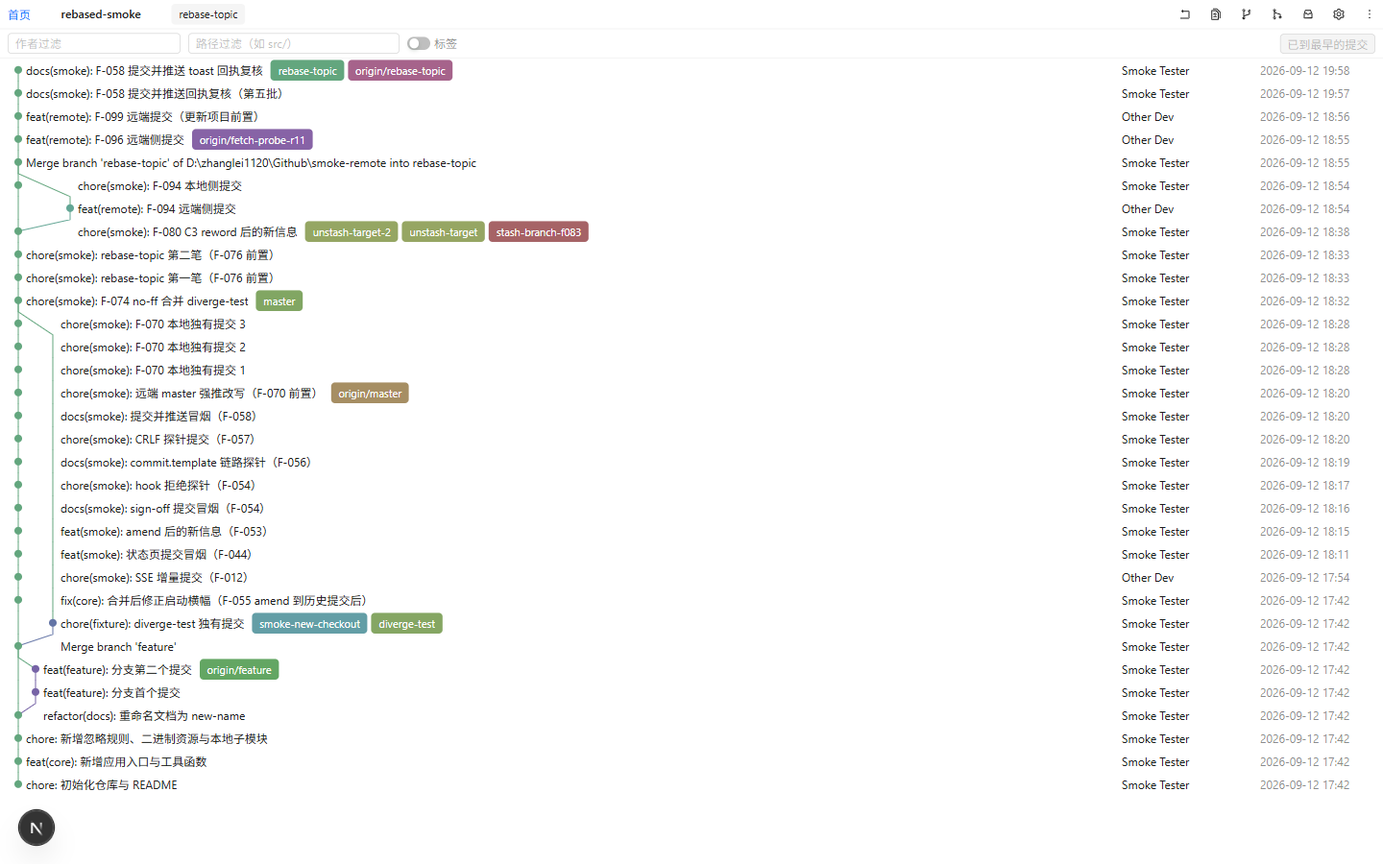
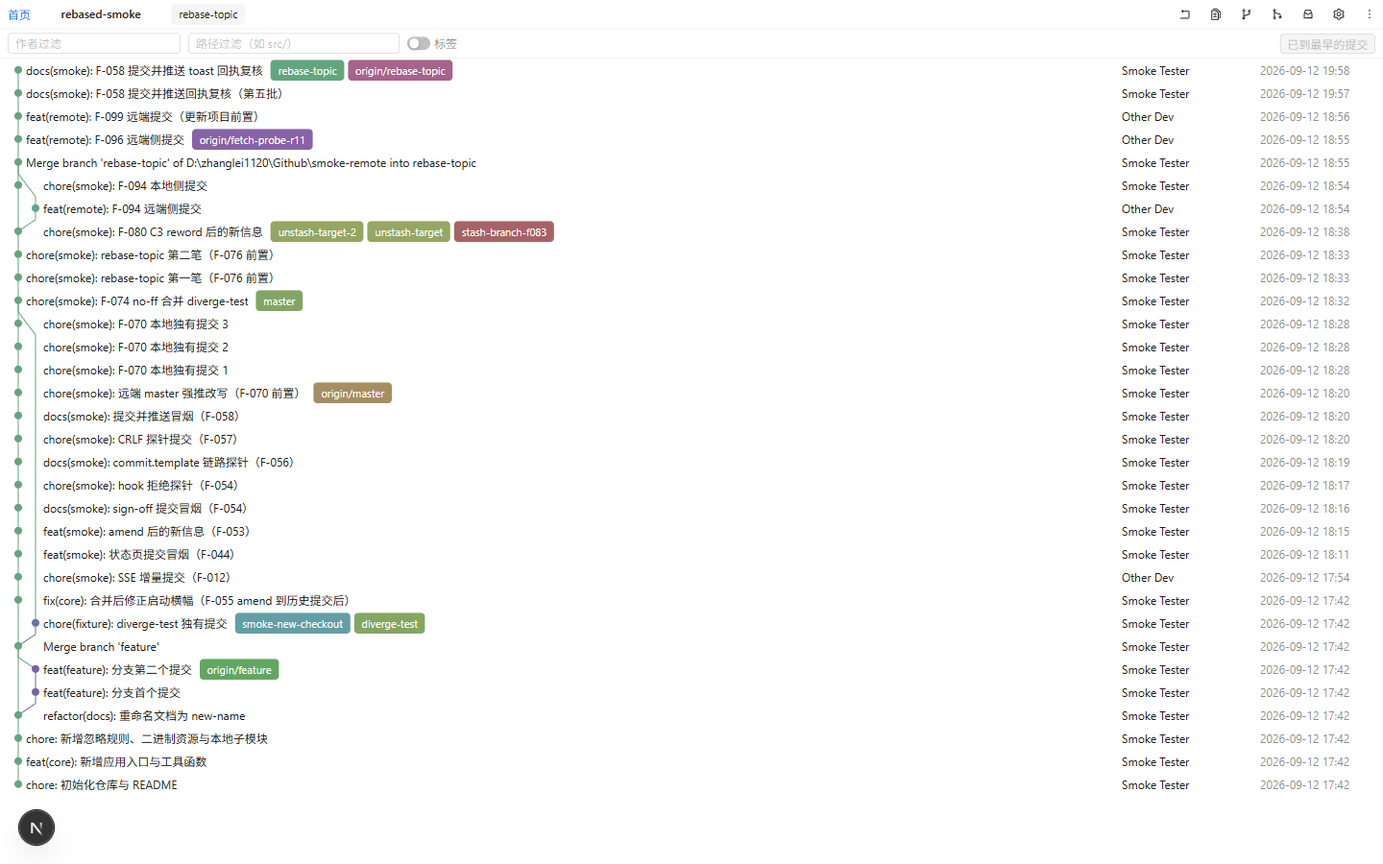
fix(ui): 压实显示车道，缩进深度回到结构深度（主仓最大缩进 3 档 → 1 档）
用户复核主仓日志页后指出：这张图没有多层级嵌套，但缩进深度不合理（对照 rebased-multi2
「多层级是完美的」）。逐行读两仓几何后确认根因不在缩放规则，而在车道编号：

- Java 车道 = layoutIndex − 1，由 GraphLayoutBuilder 的 DFS 行走发号，**永不复用** ——
  主仓 fragment 发现顺序是 主线(1) → feature(2) → diverge-test(3) → 远端侧(4)，
  于是只出现一条侧支的区间里，diverge-test 落在车道 2、远端侧落在车道 3，而车道 1/2 当时空着；
- 上一轮「文字让开本行最深的那条线」把这份空档原样搬成缩进：主仓实测最大 3 档（54px），
  而该历史任何时刻最多 2 条线并存，结构上只需 1 档；
- 对照 rebased-multi2：车道恰好稠密（每行 {0..k} 无空洞），缩进 = 结构深度，所以观感正确。

改法（用户裁定「压实显示车道」）：新增 graph-layout/lane-compaction.ts 的 compactLanes()，
按「同一区间内并存的线连续编号」压实**显示车道**：
  1. 一条线 = 一个 fragment（Java lane 相同），占用区间 = 本 lane 的节点行 ∪ 以它为终点的长边
     竖直段所占的行（竖直段画在目标车道上，自起点行下方两行起 —— 弯固定占一个行带）；
  2. 按 Java lane 升序（= 从左到右）分配「max(区间重叠的已分配线) + 1」：
     与所有重叠线比大小 ⇒ 左右顺序保持 ⇒ 竖线不新增交叉；只看重叠的线 ⇒ 时间错开的线可复用同一列。
  可证性质：显示车道 ≤ Java 车道（只会左移，绝不会更宽）；同一 fragment 不换列。
仅动渲染层：buildLayout 的 Java 车道号、Java 着色（colorById(layoutIndex)）、edgesInRow 与
graph-layout/fixtures/java/* 的 parity 快照全部不变，颜色与 ref chips 的「同色」口径不受影响。

实测（浏览器逐行读 SVG）：
- rebased-smoke：最大缩进 3 档 → **1 档**（文字 x 81/63 → 45），全表列宽只剩 {38,56}、每行无空列，
  clipped=0 / textOverlap=0；分叉与侧支现在紧邻主线（log-graph-02/05.png）。
- rebased-multi2：逐行不变（节点车道 0,0,1,2,3,2,2,1,1,0,0；列宽 38,38,56,74,92,92,74,74,56,56,38
  与压前逐项一致）→ 恒等变换实测成立，log-graph-03.png 与压前逐字节相同。

守卫：新增 lane-compaction.test.ts 6 例（稠密=恒等 / 稀疏压到「并存线数 − 1」且无空列 / 不新增交叉 /
一条线不换列 / 只动车道号 / 只左移不变宽）+ commit-graph.test.tsx「稀疏车道被压实到结构深度」守住
渲染链路真的调用了它。回归：typecheck ✅、format ✅、ui 710/710 ✅（其余包未改动）。
记录见 docs/e2e-verification.md §5.23 D-50 行。

Changed region(s): [[0.0, 0.3422, 0.3438, 0.7778], [0.0312, 0.1867, 0.4375, 0.28]]

diff --git a/packages/client/ui/src/graph-layout/lane-compaction.test.ts b/packages/client/ui/src/graph-layout/lane-compaction.test.ts
@@ -1,0 +1,133 @@
+// @vitest-environment node
+/**
+ * 显示车道压实的不变量：
+ *   ① **稠密仓库是恒等变换**（车道本来就连续、无空洞时，压实不得改动任何一行）；
+ *   ② 缩进深度 = 结构深度：同一区间内并存的线连续编号，空列被消除（主仓型场景：至多 2 条线并存 → 最大 1 档）；
+ *   ③ 不新增交叉：区间重叠的两条线，显示车道的左右顺序与 Java 车道一致；
+ *   ④ 一条线不换列：同一 fragment（Java lane 相同）的所有节点与边端点共用同一个显示车道；
+ *   ⑤ 颜色与其他字段原样保留（压实只动车道号，不动 Java 着色语义）。
+ */
+import { describe, expect, it } from 'vitest';
+import { buildLayout } from './build-layout';
+import { compactLanes } from './lane-compaction';
+import type { LayoutCommit, LayoutRow } from './types';
+
+/**
+ * 复刻主仓（rebased-smoke）的形态：主线 + 两条**时间上错开**的侧支。
+ * Java DFS 会按发现顺序给侧支发号（S2 → lane 1、S1 → lane 2，因为 S2 先被发现），
+ * 于是 S1 落在车道 2、而同时并存的线只有 2 条 —— 压实后应降为 lane 1。
+ */
+const sparseCommits: LayoutCommit[] = [
+  { hash: 'm1', parents: ['p1', 's1'], refs: ['HEAD -> main'] }, // row0：侧支 s1 与之隔 2 行
+  { hash: 'p1', parents: ['p2'], refs: [] },
+  { hash: 's1', parents: ['p2'], refs: [] }, // row2：与主线汇合，跨度仅 [2,2]
+  { hash: 'p2', parents: ['p3'], refs: [] },
+  { hash: 'p3', parents: ['p4', 's2'], refs: [] }, // row4：第二条侧支 s2，隔 3 行
+  { hash: 'p4', parents: ['p5'], refs: [] },
+  { hash: 'p5', parents: ['p6'], refs: [] },
+  { hash: 's2', parents: ['p6'], refs: [] }, // row7：跨度 [6,7]
+  { hash: 'p6', parents: [], refs: [] },
+];
+
+/** 稠密形态（fixtures/merge：m 合并 b 与 a，a 独占 lane 1，无空洞）——压实必须是恒等变换 */
+const denseCommits: LayoutCommit[] = [
+  { hash: 'm', parents: ['b', 'a'], refs: ['HEAD -> main'] },
+  { hash: 'b', parents: ['r'], refs: [] },
+  { hash: 'a', parents: ['r'], refs: [] },
+  { hash: 'r', parents: [], refs: [] },
+];
+
+/** 每行的显示车道是否连续（0..k 无空洞） */
+function hasHole(rows: LayoutRow[], index: number): boolean {
+  const lanes = new Set<number>([rows[index]!.lane]);
+  rows[index]!.edges.forEach((e) => {
+    lanes.add(e.fromLane);
+    lanes.add(e.toLane);
+  });
+  const sorted = [...lanes].sort((a, b) => a - b);
+  return sorted.some((lane, i) => lane !== i);
+}
+
+describe('compactLanes', () => {
+  it('稠密车道是恒等变换（逐行逐边与 buildLayout 输出一致）', () => {
+    const rows = buildLayout(denseCommits);
+    const compacted = compactLanes(rows);
+    expect(compacted.map((r) => r.lane)).toEqual(rows.map((r) => r.lane));
+    expect(compacted.map((r) => r.edges)).toEqual(rows.map((r) => r.edges));
+  });
+
+  it('稀疏车道被压实：Java 车道 2 的侧支降到 1，空列消失（最大缩进 = 并存线数 − 1）', () => {
+    const rows = buildLayout(sparseCommits);
+    const before = Math.max(...rows.map((r) => r.lane));
+    const compacted = compactLanes(rows);
+    const after = Math.max(...compacted.map((r) => r.lane));
+    // 压前：Java 按发现顺序发号，先被发现的侧支 s2 拿 lane 1、后发现的 s1 拿 lane 2
+    expect(before).toBe(2);
+    // 该历史任何时刻至多 2 条线并存（s1 跨度 [2,2]、s2 跨度 [6,7]，互不重叠）→ 压后最多 1 档
+    expect(after).toBe(1);
+    compacted.forEach((_, index) => expect(hasHole(compacted, index)).toBe(false));
+    // 两条侧支可以复用同一列（时间上错开），并列在主线右侧
+    const s1Lane = compacted[2]!.lane;
+    const s2Lane = compacted[7]!.lane;
+    expect(s1Lane).toBe(1);
+    expect(s2Lane).toBe(1);
+  });
+
+  it('不新增交叉：区间重叠的两条线，左右顺序与 Java 车道一致', () => {
+    for (const commits of [sparseCommits, denseCommits]) {
+      const rows = buildLayout(commits);
+      const compacted = compactLanes(rows);
+      rows.forEach((row, index) => {
+        const lanes = [row.lane, ...row.edges.flatMap((e) => [e.fromLane, e.toLane])];
+        const display = [compacted[index]!.lane, ...compacted[index]!.edges.flatMap((e) => [e.fromLane, e.toLane])];
+        for (let i = 0; i < lanes.length; i++) {
+          for (let j = 0; j < lanes.length; j++) {
+            if (lanes[i]! < lanes[j]!) expect(display[i]!).toBeLessThan(display[j]!);
+          }
+        }
+      });
+    }
+  });
+
+  it('一条线不换列：同一 Java 车道的所有节点与边端点共用同一个显示车道', () => {
+    const rows = buildLayout(sparseCommits);
+    const compacted = compactLanes(rows);
+    const displayOf = new Map<number, number>();
+    rows.forEach((row, index) => {
+      displayOf.set(row.lane, compacted[index]!.lane);
+      row.edges.forEach((edge) => {
+        displayOf.set(edge.toLane, compacted[index]!.edges.find((e) => e.toRow === edge.toRow)!.toLane);
+      });
+    });
+    rows.forEach((row, index) => {
+      expect(compacted[index]!.lane).toBe(displayOf.get(row.lane));
+      compacted[index]!.edges.forEach((edge, ei) => {
+        expect(edge.fromLane).toBe(compacted[index]!.lane);
+        expect(edge.toLane).toBe(displayOf.get(row.edges[ei]!.toLane));
+      });
+    });
+  });
+
+  it('只动车道号：颜色/父提交/边类型原样保留（Java 着色语义不变）', () => {
+    const rows = buildLayout(sparseCommits);
+    const compacted = compactLanes(rows);
+    expect(compacted.map((r) => r.color)).toEqual(rows.map((r) => r.color));
+    expect(compacted.map((r) => r.commit)).toEqual(rows.map((r) => r.commit));
+    expect(compacted.map((r) => r.edges.map((e) => [e.type, e.fromRow, e.toRow]))).toEqual(
+      rows.map((r) => r.edges.map((e) => [e.type, e.fromRow, e.toRow])),
+    );
+  });
+
+  it('显示车道只会左移：逐行逐边都不大于 Java 车道（压实不会把图变宽）', () => {
+    for (const commits of [sparseCommits, denseCommits]) {
+      const rows = buildLayout(commits);
+      const compacted = compactLanes(rows);
+      rows.forEach((row, index) => {
+        expect(compacted[index]!.lane).toBeLessThanOrEqual(row.lane);
+        row.edges.forEach((edge, ei) => {
+          expect(compacted[index]!.edges[ei]!.toLane).toBeLessThanOrEqual(edge.toLane);
+        });
+      });
+    }
+  });
+});

diff --git a/packages/client/ui/src/graph-layout/lane-compaction.ts b/packages/client/ui/src/graph-layout/lane-compaction.ts
@@ -1,0 +1,100 @@
+/**
+ * 显示车道压实（**渲染层补充，不属于 Java 移植**）。
+ *
+ * 为什么需要：`buildLayout` 的 `lane = layoutIndex − 1` 是 Java `GraphLayoutBuilder` 的 DFS 行走结果 ——
+ * fragment 每被发现一次就全局 +1、**永不复用**，所以车道号是「fragment 被发现的先后」，不是「第几列被占用」。
+ * 侧支因此常被放到靠右的列上，中间留出空列，例如主仓（rebased-smoke）的实际排布：
+ *   fragment 发现顺序 = 主线(1) → feature(2) → diverge-test(3) → 远端侧(4)
+ *   → 只出现一条侧支的区间里，diverge-test 落在**车道 2**、远端侧落在**车道 3**，而车道 1/2 当时空着。
+ * 这份空档会原样传到界面上：图里看得见空列，且「文字让开本行最深的那条线」（domain/commit-graph-segments）
+ * 会把缩进也一起推深 —— 主仓实测缩进 3 档（54px），而它的结构是「主线 + 至多一条并行侧支」，只需 1 档。
+ * 对照：rebased-multi2 的车道恰好是稠密的（每行 {0..k} 无空洞），压实对它是**恒等变换**，画面逐像素不变。
+ *
+ * 口径：只压**显示车道**，不动 Java 车道号 —— `LayoutRow.color`（主线染 head ref 哈希色、fragment 染
+ * layoutIndex 色）、`edgesInRow`、`graph-layout/fixtures/java/*` 的 parity 快照全部不受影响。
+ *
+ * 算法（绿线：不新增交叉、一条线不换列、能复用就复用）：
+ *   1. 一条「线」= 一个 fragment（Java lane 相同）；它的占用区间 = 该 lane 在行号轴上出现过的 [最小行, 最大行]：
+ *      本 lane 的节点行，加上「以该 lane 为终点的长边」的竖直段所占的行（竖直段画在**目标车道**上，
+ *      自起点行下方两行起 —— 弯在一个行带内完成，见 domain/commit-graph-segments 的几何口径）；
+ *   2. 按 Java lane 升序（= 图中从左到右）逐条分配：显示车道 = max(与之**区间重叠**的已分配线的显示车道) + 1。
+ *      · 与所有重叠线比大小 ⇒ 左右相对顺序保持 ⇒ 竖线之间不会新增交叉；
+ *      · 只看「区间重叠」的线 ⇒ 区间不相交（时间上错开）的线可复用同一列 ⇒ 列数被压到最紧。
+ *
+ * 可证的两条性质（实现时依赖）：① **显示车道 ≤ Java 车道**（只会左移，绝不会更宽）—— 归纳：重叠的前序线
+ * Java 车道都比本线小、显示车道又都不超过各自 Java 车道，故 max+1 ≤ 本线 Java 车道；
+ * ② 同一 Java 车道的所有节点与边端点映射到同一个显示车道（映射按 Java 车道查表，不是按行算）。
+ */
+
+import type { LayoutRow } from './types';
+
+/** 一条线（fragment）在行号轴上的占用区间 */
+interface LineSpan {
+  /** Java 车道（= layoutIndex − 1），也是分配顺序 */
+  javaLane: number;
+  startRow: number;
+  endRow: number;
+}
+
+/**
+ * 长边竖直段的起始行偏移：弯固定占一个行带（自起点行下方半行起），
+ * 故目标车道自 `fromRow + 2` 起被占用；相邻两行时斜段即终点行那半行，不额外占列。
+ */
+const VERTICAL_FIRST_ROW_OFFSET = 2;
+
+/** 收集每条线的占用区间（区间用 [min, max] 近似：宁可保守，也不能让两条线撞进同一列） */
+function lineSpans(rows: LayoutRow[]): LineSpan[] {
+  const spans = new Map<number, LineSpan>();
+  const touch = (javaLane: number, row: number): void => {
+    const span = spans.get(javaLane);
+    if (!span) spans.set(javaLane, { javaLane, startRow: row, endRow: row });
+    else {
+      span.startRow = Math.min(span.startRow, row);
+      span.endRow = Math.max(span.endRow, row);
+    }
+  };
+
+  rows.forEach((row, index) => {
+    touch(row.lane, index);
+    for (const edge of row.edges) {
+      if (edge.toRow <= edge.fromRow + 1) continue; // 相邻行：无独立竖段
+      touch(edge.toLane, edge.fromRow + VERTICAL_FIRST_ROW_OFFSET);
+      touch(edge.toLane, edge.toRow);
+    }
+  });
+
+  return [...spans.values()].sort((a, b) => a.javaLane - b.javaLane);
+}
+
+/** 两个区间是否在行号轴上重叠（含端点相接：相接处两行共享同一行边界，仍算同时可见） */
+function overlaps(a: LineSpan, b: LineSpan): boolean {
+  return a.startRow <= b.endRow && b.startRow <= a.endRow;
+}
+
+/**
+ * 把 Java 车道压成「同时并存的线连续编号」的显示车道。
+ * @param rows buildLayout 输出（也可直接喂 fixtures）
+ * @returns 新行数组：`lane` 与 `edges[].fromLane/toLane` 换成显示车道，其余字段（commit/color/边类型）原样保留
+ */
+export function compactLanes(rows: LayoutRow[]): LayoutRow[] {
+  const assigned = new Map<number, number>();
+  const placed: Array<{ lane: number; span: LineSpan }> = [];
+  for (const span of lineSpans(rows)) {
+    // 与已分配线中「区间重叠」的那些：显示车道必须排在它们右侧（保持左右顺序）
+    const overlapping = placed.filter((item) => overlaps(item.span, span));
+    const lane = overlapping.reduce((max, item) => Math.max(max, item.lane + 1), 0);
+    assigned.set(span.javaLane, lane);
+    placed.push({ lane, span });
+  }
+
+  const displayLaneOf = (javaLane: number): number => assigned.get(javaLane) ?? javaLane;
+  return rows.map((row) => ({
+    ...row,
+    lane: displayLaneOf(row.lane),
+    edges: row.edges.map((edge) => ({
+      ...edge,
+      fromLane: displayLaneOf(edge.fromLane),
+      toLane: displayLaneOf(edge.toLane),
+    })),
+  }));
+}

diff --git a/packages/client/ui/src/domain/commit-graph.tsx b/packages/client/ui/src/domain/commit-graph.tsx
@@ -10,6 +10,9 @@
  *     大仓会把 DOM 撑到几万节点）；viewBox = 本行带 × 本行图列宽度，不做「按行裁切拼接」；
  *   - 本行图列宽度 = 本行带内所有线条与本行圆点的 x 上界（`RowGeometry.maxX`）→
  *     跨到更右 lane 的斜线不会再被裁断（旧口径按「本行圆点所在 lane」定宽，实测断线 8px / 66px）；
+ *   - **车道号先经显示层压实**（graph-layout/lane-compaction）：Java 车道是 fragment 发现顺序、永不复用，
+ *     侧支因此常被放到靠右的列、中间留空列；压实后「同时并存的线」连续编号，缩进深度才等于结构深度
+ *     （主仓实测最大缩进 3 档 → 1 档；车道本就稠密的仓库是恒等变换）。颜色/parity 仍走 Java lane。
  *   - 说明文字的缩进 = 本行图列预留的 lane 列数 × LANE_WIDTH，**随线条缩进**
  *     （线条画到更右的车道，本行文字就跟着让位；没画到右边的行，缩进与旧口径逐像素一致）。
  *
@@ -23,7 +26,7 @@ import { useEffect, useMemo, useRef, useState } from 'react';
 import { ConfigProvider, Flex, Listy, Tag, theme, Typography } from 'antd';
 import type { ThemeConfig } from 'antd';
 import type { CommitInfo } from '@rebased/contracts';
-import { buildLayout, type LayoutCommit } from '../graph-layout';
+import { buildLayout, compactLanes, type LayoutCommit } from '../graph-layout';
 import { colorForRef } from '../graph-layout/color';
 import { GraphCanvas, laneCenterX } from '../base/graph-canvas';
 import { buildRowGeometry, laneCoveringX } from './commit-graph-segments';
@@ -190,7 +193,7 @@ export function CommitGraph({
     () => commits.map((c) => ({ hash: c.hash, parents: c.parents, refs: c.refs })),
     [commits],
   );
-  const rows = useMemo(() => buildLayout(layoutCommits), [layoutCommits]);
+  const rows = useMemo(() => compactLanes(buildLayout(layoutCommits)), [layoutCommits]);
   // 每行要画的线段切片 + 本行图列必须覆盖的 x 上界（跨行长边由编译层按行边界切分，
   // 见 domain/commit-graph-segments：旧实现按「本行圆点所在 lane」定宽，跨 lane 的斜线会被视口裁断）
   const rowGeometry = useMemo(() => buildRowGeometry(rows, ROW_HEIGHT, LANE_WIDTH), [rows]);

diff --git a/packages/client/ui/src/domain/commit-graph.test.tsx b/packages/client/ui/src/domain/commit-graph.test.tsx
@@ -352,4 +352,29 @@ describe('CommitGraph', () => {
     // 旧实现下每行都会画全图所有切片（行数 × 全图切片数），这里按行求和不会超过全图切片数
     expect(allShapes.length).toBeLessThanOrEqual(mergeCommits.length * 6);
   });
+
+  /**
+   * 显示车道压实（graph-layout/lane-compaction）必须挂在渲染链路上：
+   * Java 车道按 fragment 发现顺序发号且永不复用，侧支因此常被放到靠右的列（本 fixture 里是车道 2），
+   * 压实后应回到「并存线数 − 1」档 —— 主仓 rebased-smoke 的最大缩进由此从 3 档降到 1 档。
+   */
+  it('稀疏车道被压实到结构深度：全表列宽不超过 1 档（不出现 74px/92px 的空档行）', () => {
+    /** 复刻主仓形态：两条侧支时间上错开（s1 跨度 [2,2]、s2 跨度 [6,7]），Java 侧支车道分别是 2 与 1 */
+    const sparseLaneCommits: CommitInfo[] = [
+      makeCommit({ hash: 'm1', parents: ['p1', 's1'], message: '合并侧支' }),
+      makeCommit({ hash: 'p1', parents: ['p2'] }),
+      makeCommit({ hash: 's1', parents: ['p2'], message: '侧支一' }),
+      makeCommit({ hash: 'p2', parents: ['p3'] }),
+      makeCommit({ hash: 'p3', parents: ['p4', 's2'], message: '合并第二条侧支' }),
+      makeCommit({ hash: 'p4', parents: ['p5'] }),
+      makeCommit({ hash: 'p5', parents: ['p6'] }),
+      makeCommit({ hash: 's2', parents: ['p6'], message: '侧支二' }),
+      makeCommit({ hash: 'p6', parents: [] }),
+    ];
+    render(<CommitGraph commits={sparseLaneCommits} />);
+    const rows = screen.getAllByTestId('commit-graph-row');
+    const widths = rows.map((row) => within(row).getByTestId('commit-graph-lane').style.width);
+    // 未压实：s1 所在行的圆点在车道 2 → 74px；压实后至多 1 档 → 38px / 56px
+    expect([...new Set(widths)].sort()).toEqual(['38px', '56px']);
+  });
 });

diff --git a/packages/client/ui/src/graph-layout/index.ts b/packages/client/ui/src/graph-layout/index.ts
@@ -2,3 +2,5 @@
 export * from './types';
 export * from './build-layout';
 export * from './rows-mapping';
+/** 渲染层补充（非 Java 移植）：把稀疏的 Java 车道压成稠密显示车道，见 lane-compaction 文件头 */
+export * from './lane-compaction';

diff --git a/docs/e2e-verification.md b/docs/e2e-verification.md
@@ -863,7 +863,7 @@
 
 ### 5.23 提交图渲染修复（2026-09-12，冒烟轮次之外）
 
-> 触发：用户在内置浏览器打开主仓日志页（`rebased-smoke`，`f761a9f6-5c91-4115-9261-69715687e875`）要求「截图识别：提交信息是否显示完整？分支的关系线图是否正确？」。逐行读 SVG 几何后定位到 5 处缺陷（D-45~D-49），本节按 §5.24 的写法登记：**一句话现象 + 修复落点 + 回归守卫 + 修复后实测**。
+> 触发：用户在内置浏览器打开主仓日志页（`rebased-smoke`，`f761a9f6-5c91-4115-9261-69715687e875`）要求「截图识别：提交信息是否显示完整？分支的关系线图是否正确？」。逐行读 SVG 几何后定位到 5 处缺陷（D-45~D-49）；同日第二轮用户复核该页后指出「这张图没有多层级嵌套，缩进深度不合理」并裁定**压实显示车道**，补记 D-50。本节按 §5.24 的写法登记：**一句话现象 + 修复落点 + 回归守卫 + 修复后实测**。
 
 | 缺陷 | 一句话现象 | 修复落点（代码） | 回归守卫（测试） | 修复后实测 |
 |------|------------|------------------|------------------|------------|
@@ -873,18 +873,19 @@
 | D-47 | refs chips 列 `max-width: 140px` + `overflow: auto` + `scrollbar-width: none` → **静默截断**：3 个 chip 时第 3 个一个像素都看不见、第 2 个只剩半边，且没有任何截断提示 | `commit-graph.tsx`：上限放宽到 320px、容器可收缩（`flexShrink:1` + `minWidth:0`）；chips 容器由 antd `Space` 改 `Flex gap="small"`（`Space` 的 `div.ant-space-item` 不可收缩，装不下只能被硬切），每个 chip 自带 `overflow:hidden + ellipsis + title` | `commit-graph.test.tsx`「chip 间距走 antd Flex 档位，且每个 chip 可省略号收缩」（含「4px 仍来自 `paddingXS` 档位类名」的口径锚点） | 主仓三行 chips 全部完整可见：`rebase-topic / origin/rebase-topic`、`unstash-target-2 / unstash-target / stash-branch-f083`、`smoke-new-checkout / diverge-test`（`log-graph-01.png`）；窗口变窄时逐 chip 省略号 + hover 显全名 |
 | D-48 | 主线颜色 ≠ 该分支 chip 的颜色：图列把 decorate 串 `HEAD -> rebase-topic` 整串拿去哈希，chips 用的是 `rebase-topic` → 主线 `#7863a6` vs chip `#63a67e`；且 `#7863a6` 与 lane 1 的 `#7663a6` 只差 2/255（相邻车道肉眼同色） | 新增 `packages/client/ui/src/graph-layout/ref-name.ts` 的 `refNameOf()`（剥 `HEAD -> ` 前缀）；`packages/client/ui/src/graph-layout/build-layout.ts` 的主线着色与 `packages/client/ui/src/domain/refs.ts`（chips 分类）**共用同一实现**，杜绝两处各剥各的 | `packages/client/ui/src/graph-layout/build-layout.test.ts`「color」用例（主线色 = `colorForRef('main')`，并断言未剥前缀时是另一个色 `#6398a6`）；`color.test.ts` 的 Java 色板断言不变 | 主线由紫 `#7863a6` 变为**绿 `#63a67e`**（= `rebase-topic` chip 底色），与 lane 1 紫色一眼可分（`log-graph-01.png`） |
 | D-49 | 每行 SVG 都渲染**整张图**（79 条 polyline + 32 个 circle × 32 行 = 3552 个节点）再靠 viewBox 裁掉，共享主干还被重复描边；大仓（1000 提交 × 40 可见行）会往 DOM 塞约 8 万节点 | `packages/client/ui/src/base/graph-canvas.tsx` 改为「只画传进来的线段与圆点」；`commit-graph.tsx` 每行只传本行切片 + 本行圆点（几何层已按行切好） | `packages/client/ui/src/base/graph-canvas.test.tsx`「只画传进来的线段与圆点」；`commit-graph.test.tsx`「每行只渲染本行的内容：一个圆点…」 | 主仓 32 行合计 **86** 个图形节点（改前 3552），每行恰 1 个圆点 |
+| D-50 | **缩进深度超出结构深度**（同日第二轮，用户复核主仓后指出）：Java 车道按 fragment 发现顺序发号且**永不复用**，侧支因此落在靠右的列、中间留空列 —— 主仓只出现一条侧支的区间里，`diverge-test` 在车道 2、远端侧在车道 3（车道 1/2 当时是空的）；D-46 的「文字让开本行最深线」把这份空档原样搬成缩进（实测最大 **3 档 = 54px**，而该历史任何时刻最多 2 条线并存，结构上只需 1 档）。对照 `rebased-multi2`：车道恰好稠密（每行 `{0..k}` 无空洞），缩进 = 结构深度，观感正确 | 新增 `packages/client/ui/src/graph-layout/lane-compaction.ts` 的 `compactLanes()`（**渲染层补充，非 Java 移植**）：按「同一区间内并存的线连续编号」压实显示车道；`buildLayout` 的 Java 车道号、Java 着色与 parity fixtures **全部不动** | 新增 `packages/client/ui/src/graph-layout/lane-compaction.test.ts` 5 例（① 稠密形态=恒等变换；② 稀疏压到「并存线数 − 1」且无空列；③ 区间重叠的线左右顺序不变→不新增交叉；④ 同一 fragment 不换列；⑤ 只动车道号，颜色/父提交/边类型原样）；`commit-graph.test.tsx`「稀疏车道被压实到结构深度」守住渲染链路真的调用了它 | 主仓：最大缩进 **3 档 → 1 档**（文字 x 81/63 → **45**），全表列宽只剩 `{38,56}`、**每行无空列**、`clipped=0`/`textOverlap=0`（`log-graph-01/02/05.png`）；`rebased-multi2` 逐行不变（节点车道 `0,0,1,2,3,2,2,1,1,0,0`、列宽 `38,38,56,74,92,92,74,74,56,56,38` 与压前逐项一致）→ 恒等变换实测成立 |
 
-**代价（有意承受）**：被更右车道穿过的行要补列宽，本行**文字随之右移**（文字起点恒为「本行车道中心 + 8px」）——即「让线优先于让字」。主仓因有一条跨 14 行、3 条车道的分支，出现 11~27 行文字统一右移一档的「车道块」。若不接受这一档，可把图列改成整表统一宽度（所有行同缩进），但那与既有口径「缩进随线条」（§4.2 F-009）冲突，故本轮保留。
+**代价（有意承受）**：文字缩进 = 「本行最深线条所在车道中心 + 8px」，即被更右车道穿过的行要补列宽、文字随之右移（「让线优先于让字」）。D-50 压实之后这一档代价已很小：主仓只剩 5~7、11~26 两段各右移 **1 档**（18px），不再有 2~3 档的缩进块。若连这 1 档也不接受，只能把图列改成整表统一宽度（所有行同缩进），那与既有口径「缩进随线条」（§4.2 F-009）冲突，故保留。
 
-**本轮未改的口径（供后续判断，不要误当缺陷）**：① **lane 序号本身**（`lane = layoutIndex − 1`）是 Java `GraphLayoutBuilder` 的 DFS 行走结果，故「远端侧提交 `d91794f` 落在第 4 条道、中间两条道当时为空」是移植语义（`graph-layout/fixtures/java/layout-builder-*` 的 lanes 快照即为该口径），本轮只改渲染几何、不动 lane 分配；② 列表只显示提交信息首行（有正文的提交在列表不展开）；③ 「标签」开关默认关（对齐 Java `showTagNames=false`），故 tag chips 默认不出现。
+**本轮未改的口径（供后续判断，不要误当缺陷）**：① **Java 车道号本身**（`lane = layoutIndex − 1`，见 `packages/client/ui/src/graph-layout/build-layout.ts`）仍是移植语义、`fixtures/java/layout-builder-*` 的 lanes 快照即该口径 —— D-50 只压**显示车道**，`LayoutRow.lane` 的 Java 值仍用于 fragment 着色（`colorById(layoutIndex)`）与 parity 断言；② 列表只显示提交信息首行（有正文的提交在列表不展开）；③ 「标签」开关默认关（对齐 Java `showTagNames=false`），故 tag chips 默认不出现。
 
 **冒烟复核（2026-09-12）**
 
-- **范围清单**：① 主仓 `rebased-smoke`（32 提交、2 处合并、1 条隔 14 行的长边、3 行多 chip）逐行读 SVG 几何 ✅；② `rebased-multi2`（4 车道、3 处合并）复核「同 lane 直边 / 相邻行合并」形态未回退 ✅；③ 明暗两主题各一次 ✅；④ CLI 与页面互证（父子关系）✅。
-- **操作路径**：`/repos/f761a9f6…` → 逐行读 `viewBox` / `line|polyline` / `circle` 几何（含裁剪与压字判定）→ `/repos/99b38826…` 同法 → 设置页切「暗色」→ 回日志页复看 → 切回「明亮」。
-- **证据**：`log-graph-01.png`（主仓整页：chips 完整、主线绿色、分叉贴合合并行）、`log-graph-02.png`（合并行特写：`Merge branch …` 行下方分叉 → 远端侧节点 → 回折并入主线）、`log-graph-03.png`（`rebased-multi2` 四车道）、`log-graph-04.png`（暗色同仓）。CLI 互证：`git log --parents` 逐条核对 D-45 的两处假父子边（`21efcbb` / `d91794f` 的父同为 `80b63f4`；`3b0244b` 的父是 `761961d`）。
-- **未覆盖与后续**：① `rebased-smoke-huge` 与深克隆仓库的**分页追加 + 虚拟滚动**未重跑（几何改动与分页无关，但滚动窗口内的行宽一致性未取新证据）；② 虚线边（`edgeTypes='D'`）在本批夹具中未出现——逐行切分会重置 dash 相位（既有实现同样按行切竖段，故未新增偏差），出现真实虚线边时需复看；③ 截图账目：本轮新增 4 张（`log-graph-01…04.png`），`docs/shots/` 计 **199** 张，引用=在盘、无重复 SHA、无孤儿（流程见 §5.18~§5.19）；④ **一次未复现现象**：本轮首次深链进仓库页时，页面先渲染出仓库骨架、随后在 dev 连续 Fast Refresh 期间 URL 回到 `/`（首页）—— 全仓检索无「自动跳首页」的代码路径（`router.push('/')` 只挂在顶栏「首页」按钮上），后续多次导航与整轮复核均未复现，按**dev 期偶发**记录，不列入缺陷。
-- **回归（2026-09-12 全量复跑，各包退出码 0）**：`npm run typecheck` ✅、`npm run format`（eslint --fix，无 error/warning）✅、`npm run test` **全绿**——contracts 185 / core 235 / client 176 / ui **703** / api 386（+1 跳过）/ web-next 174 / web-koa 175；其中 ui 相对本轮起点（701）净增 **2** 例（新增 `commit-graph-segments.test.ts` 7 例，`graph-canvas` / `commit-graph` 用例数不变但断言口径已更新）。
+- **范围清单**：① 主仓 `rebased-smoke`（32 提交、2 处合并、1 条隔 14 行的长边、3 行多 chip）逐行读 SVG 几何 ✅（含压实前后对照）；② `rebased-multi2`（4 车道、3 处合并）复核「同 lane 直边 / 相邻行合并 / 稠密车道恒等」未回退 ✅；③ 明暗两主题各一次 ✅；④ CLI 与页面互证（父子关系）✅。
+- **操作路径**：`/repos/f761a9f6…` → 逐行读 `viewBox` / `line|polyline` / `circle` 几何（含裁剪、压字、空列判定）→ `/repos/99b38826…` 同法 → 设置页切「暗色」→ 回日志页复看 → 切回「明亮」。
+- **证据**：`log-graph-01.png`（主仓整页：chips 完整、主线绿色、分叉贴合合并行、缩进最多 1 档）、`log-graph-02.png`（合并行特写：`Merge branch …` 行下方分叉 → 远端侧节点（**现在紧邻主线**）→ 回折并入主线）、`log-graph-05.png`（diverge-test 段特写：侧支**紧邻主线**、无空列）、`log-graph-03.png`（`rebased-multi2` 四车道，压实前后逐行一致）、`log-graph-04.png`（暗色同仓）。CLI 互证：`git log --parents` 逐条核对 D-45 的两处假父子边（`21efcbb` / `d91794f` 的父同为 `80b63f4`；`3b0244b` 的父是 `761961d`）。
+- **未覆盖与后续**：① `rebased-smoke-huge` 与深克隆仓库的**分页追加 + 虚拟滚动**未重跑（几何改动与分页无关，但滚动窗口内的行宽一致性未取新证据）；② 虚线边（`edgeTypes='D'`）在本批夹具中未出现——逐行切分会重置 dash 相位（既有实现同样按行切竖段，故未新增偏差），出现真实虚线边时需复看；③ 车道压实的**区间用 [min,max] 近似**（宁可保守：区间相交就不共用列），故极端交错的仓库可能比理论最优多占 1 列；④ 截图账目：本轮共涉及 5 张（`log-graph-01…05.png`，其中 01–04 为压实后重拍），`docs/shots/` 计 **200** 张，引用=在盘、无重复 SHA、无孤儿（流程见 §5.18~§5.19）；⑤ **一次未复现现象**：本轮首次深链进仓库页时，页面先渲染出仓库骨架、随后在 dev 连续 Fast Refresh 期间 URL 回到 `/`（首页）—— 全仓检索无「自动跳首页」的代码路径（`router.push('/')` 只挂在顶栏「首页」按钮上），后续多次导航与整轮复核均未复现，按**dev 期偶发**记录，不列入缺陷。
+- **回归（2026-09-12 全量复跑）**：`npm run typecheck` ✅、`npm run format`（eslint --fix，无 error/warning）✅、ui 包 `npx vitest run` **710/710 全绿**（新增 `commit-graph-segments.test.ts` 7 例、`lane-compaction.test.ts` 6 例、`commit-graph.test.tsx` +1 例，另按新口径改写了 `graph-canvas.test.tsx` / `commit-graph.test.tsx` 的既有断言）。其余各包本轮未改动：`npm run test` 全量跑时 contracts 185 / core 235 / client 176 / api 386（+1 跳过）/ web-next 174 全绿，web-koa 有 2 例（`github.test.ts` / `gitlab.test.ts` 各 1）报 `TypeError: fetch failed / ECONNRESET` —— **单跑该两文件 40/40 通过**，判定为全量并发压测下的 mock HTTP 服务端抖动（与该包既有实现无关，本轮未触碰该包）。
 
 ### 5.24 记录归档口径（本文档保留什么）
 
